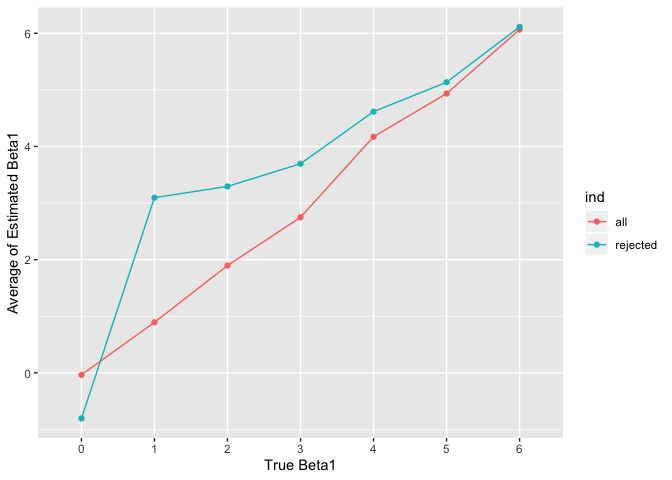
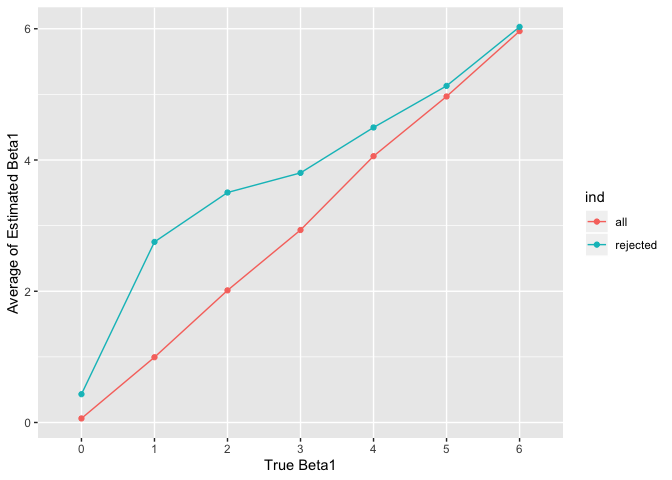
change to 1000

diff --git a/p8105_hw5_ql2370.md b/p8105_hw5_ql2370.md
@@ -115,7 +115,7 @@ addition, experimental arm increased as the week increased.
 ### Problem 3
 
 ``` r
-sim_regression = function(n = 100, beta0 = 2, beta1 = 0) {
+sim_regression = function(n = 1000, beta0 = 2, beta1 = 0) {
   
   sim_data = tibble(
     x = rnorm(n, mean = 0, sd = 1),
@@ -132,13 +132,13 @@ sim_regression = function(n = 100, beta0 = 2, beta1 = 0) {
 ```
 
 ``` r
-output_0 = rerun(100, sim_regression(n = 30)) %>% 
+output_0 = rerun(1000, sim_regression(n = 30)) %>% 
   bind_rows()
 
 output_0
 ```
 
-    ## # A tibble: 100 x 2
+    ## # A tibble: 1,000 x 2
     ##    estimate  p.value
     ##       <dbl>    <dbl>
     ##  1    2.02  0.207   
@@ -151,13 +151,13 @@ output_0
     ##  8    0.331 0.769   
     ##  9    0.576 0.670   
     ## 10    2.40  0.134   
-    ## # … with 90 more rows
+    ## # … with 990 more rows
 
 For plot
 part
 
 ``` r
-sim_output =  map_df(.x = 0:6, ~ rerun(100, sim_regression(n = 30, beta1 = .x) %>% 
+sim_output =  map_df(.x = 0:6, ~ rerun(1000, sim_regression(n = 30, beta1 = .x) %>% 
           mutate(beta1 = .x)) %>% 
           bind_rows()
 )
